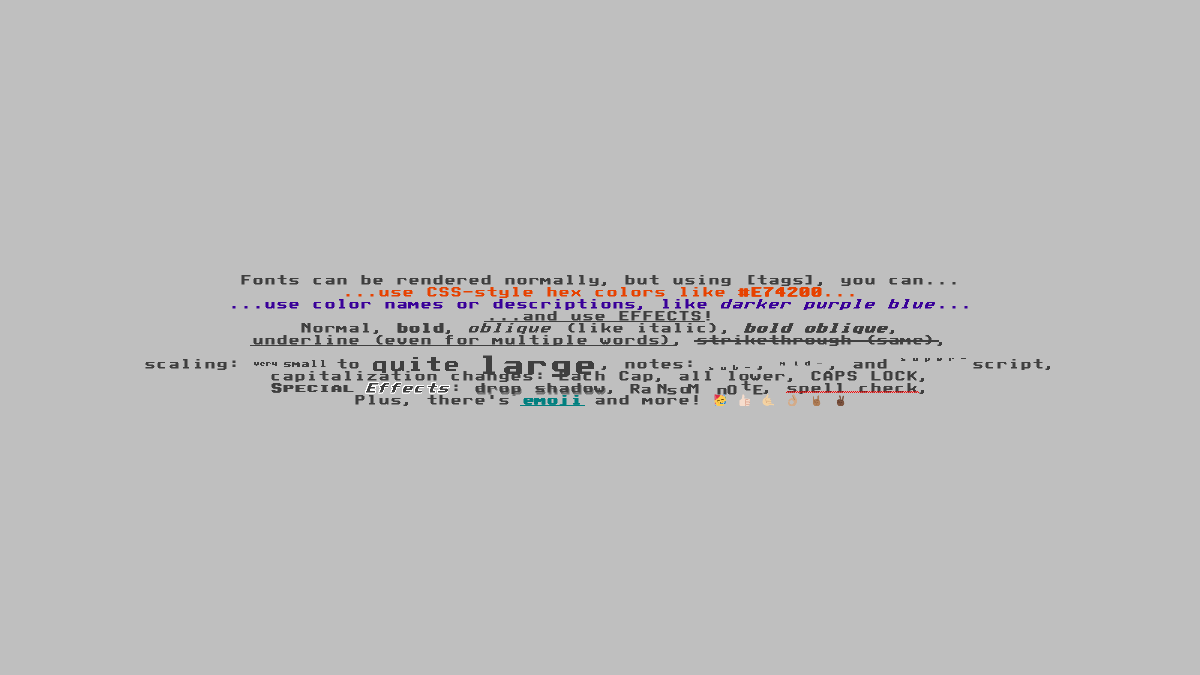
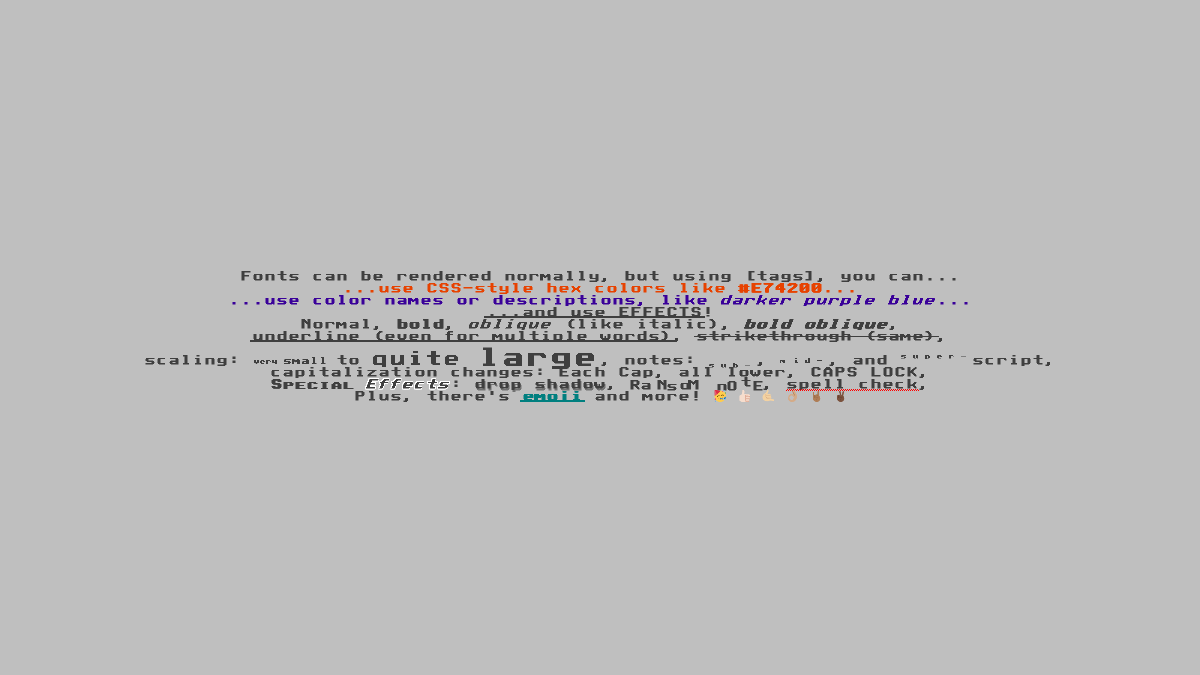
AStarry definitely had some position issues.
I think they're all fixed now.

Former-commit-id: 711d654115edcefa322634e88d926ba7a91d3c21

Changed region(s): [[0.1233, 0.4044, 0.8017, 0.6222], [0.8017, 0.5289, 0.8633, 0.56]]

diff --git a/src/test/java/com/github/tommyettinger/textra/squidglyph/MinimalGridTest.java b/src/test/java/com/github/tommyettinger/textra/squidglyph/MinimalGridTest.java
@@ -17,6 +17,7 @@ import com.badlogic.gdx.utils.ScreenUtils;
 import com.github.tommyettinger.textra.Font;
 import com.github.tommyettinger.textra.KnownFonts;
 import com.github.tommyettinger.textra.TypingLabel;
+import com.github.tommyettinger.textra.utils.BlockUtils;
 
 import java.util.ArrayDeque;
 import java.util.ArrayList;
@@ -45,6 +46,8 @@ public class MinimalGridTest extends ApplicationAdapter {
     private static final int CELL_WIDTH = 32;
     private static final int CELL_HEIGHT = 32;
 
+    private static final String VALID_CHARS = "abcdefghijklmnopqrstuvwxyz" + BlockUtils.ALL_BLOCK_CHARS;
+
     public static void main(String[] args){
         Lwjgl3ApplicationConfiguration config = new Lwjgl3ApplicationConfiguration();
         config.setTitle("Traditional Roguelike Map Demo");
@@ -70,7 +73,7 @@ public class MinimalGridTest extends ApplicationAdapter {
 //                .setLineMetrics(-0.125f, -0.125f, 0f, -0.25f).setInlineImageMetrics(-8f, 24f, 0f)
 //                .setTextureFilter().setName("Iosevka Slab"));
 
-        Font font = KnownFonts.addEmoji(KnownFonts.getIosevkaSlab()
+        Font font = KnownFonts.addEmoji(KnownFonts.getAStarry()
 //                .setLineMetrics(-0.125f, -0.125f, 0f, -0.25f)
 //                .setInlineImageMetrics(-8f, 24f, 0f)
         );
@@ -282,12 +285,19 @@ public class MinimalGridTest extends ApplicationAdapter {
     }
 
     public void recolor(){
+        int idx = 0;
         for (int y = 0; y < GRID_HEIGHT; y++) {
             for (int x = 0; x < GRID_WIDTH; x++) {
                 char c = dungeon[x][y];
                 switch (c){
                     case ' ':
                         gg.backgrounds[x][y] = 0;
+                        break;
+                    case '.':
+                        gg.backgrounds[x][y] = 0x808080FF |
+                                (int)((y + ((x + y) * (x + y + 1) >> 1)) * 0x9E3779B97F4A7C15L >>> 57)
+                                        * 0x01010100;
+                        gg.put(x, y, VALID_CHARS.charAt(idx++ * idx % VALID_CHARS.length()), 0x444444FF);
                         break;
                     default:
                         gg.backgrounds[x][y] = 0x808080FF |

diff --git a/src/main/java/com/github/tommyettinger/textra/KnownFonts.java b/src/main/java/com/github/tommyettinger/textra/KnownFonts.java
@@ -108,10 +108,10 @@ public final class KnownFonts implements LifecycleListener {
         if (instance.astarry == null) {
             try {
                 instance.astarry = new Font(instance.prefix + "AStarry-standard.fnt",
-                        instance.prefix + "AStarry-standard.png", STANDARD, 0, 48, 0, 0, true)
+                        instance.prefix + "AStarry-standard.png", STANDARD, 0, 12, 0, 0, true)
                         .scaleTo(8, 8).setBoldStrength(0.5f)
-                        .setDescent(-12f).setLineMetrics(0f, -0.375f, 0f, 0f).setFancyLinePosition(0, -0.375f)
-                        .setInlineImageMetrics(-4f, 32f, 0f)
+                        .setDescent(-12f)
+                        .setInlineImageMetrics(-4f, 20f, 0f)
                         .setTextureFilter().setName("A Starry");
             } catch (Exception e) {
                 e.printStackTrace();

diff --git a/src/main/java/com/github/tommyettinger/textra/utils/BlockUtils.java b/src/main/java/com/github/tommyettinger/textra/utils/BlockUtils.java
@@ -214,4 +214,7 @@ public class BlockUtils {
             /* ▞ : u259E */ {0, 0, 0.5f, 0.5f, 0.5f, 0.5f, 0.5f, 0.5f},
             /* ▟ : u259F */ {0.5f, 0, 0.5f, 1, 0, 0, 0.5f, 0.5f}
     };
+
+    public static final String ALL_BLOCK_CHARS =
+            "─━│┃┄┅┆┇┈┉┊┋┌┍┎┏┐┑┒┓└┕┖┗┘┙┚┛├┝┞┟┠┡┢┣┤┥┦┧┨┩┪┫┬┭┮┯┰┱┲┳┴┵┶┷┸┹┺┻┼┽┾┿╀╁╂╃╄╅╆╇╈╉╊╋╌╍╎╏═║╒╓╔╕╖╗╘╙╚╛╜╝╞╟╠╡╢╣╤╥╦╧╨╩╪╫╬╴╵╶╷╸╹╺╻╼╽╾╿▀▁▂▃▄▅▆▇█▉▊▋▌▍▎▏▐▔▕▖▗▘▙▚▛▜▝▞▟";
 }
